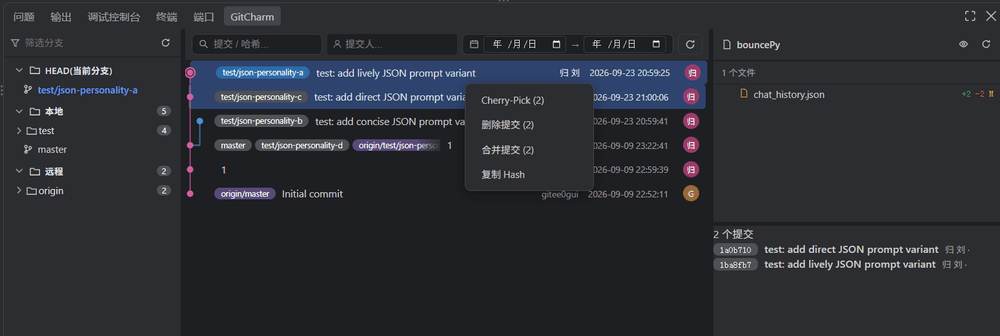
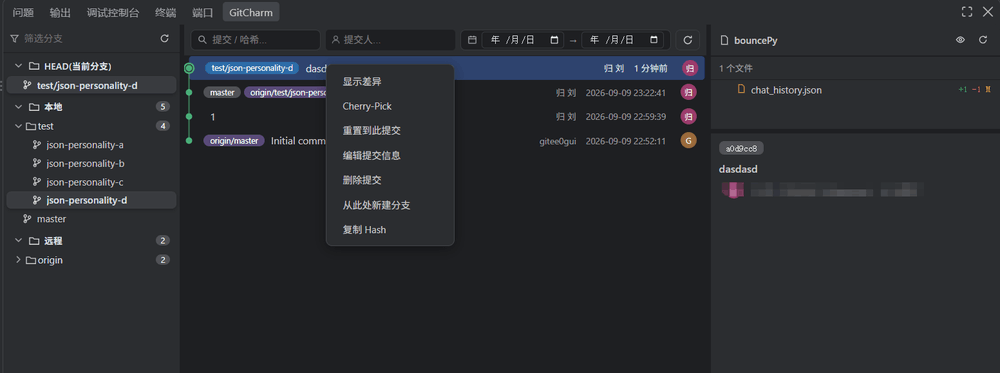
文档：提交右键菜单截图拆分为单选/多选两张并补全说明
- 新增单选 HEAD 提交右键菜单截图为主图 commit-context-menu.png（显示差异/精选/重置/新建分支/编辑提交信息/删除提交/复制 Hash）
- 原多选截图改名为 commit-context-menu-multi.png，README 中英各补"多选"条目（批量 精选/删除/合并）

diff --git a/README.md b/README.md
@@ -14,9 +14,13 @@ GitCharm provides a three-panel Git log view:
 
 ## Screenshots
 
-**Commit context menu** — right-click a commit row for Show Diff / Cherry-Pick / Reset / New Branch, plus Amend message & Drop on HEAD
+**Commit context menu (single)** — right-click a commit row for Show Diff / Cherry-Pick / Reset / New Branch, plus Amend message & Drop on HEAD
 
 ![Commit context menu](resources/screenshots/commit-context-menu.png)
+
+**Commit context menu (multi-select)** — select several commits then right-click for batch Cherry-Pick / Drop / Squash
+
+![Commit context menu multi-select](resources/screenshots/commit-context-menu-multi.png)
 
 **Branch context menu** — right-click a branch node for Checkout / Rename / Delete / Merge / Rebase / Push / Pull
 
@@ -150,9 +154,13 @@ GitCharm 提供一个三栏式的 Git 日志面板：
 
 ## 界面截图
 
-**提交右键菜单**：提交行右键呼出 显示差异 / 精选提交 / 重置 / 新建分支，HEAD 附近另有 编辑提交信息 与 删除提交
+**提交右键菜单（单选）**：提交行右键呼出 显示差异 / 精选提交 / 重置 / 新建分支，HEAD 附近另有 编辑提交信息 与 删除提交
 
 ![提交右键菜单](resources/screenshots/commit-context-menu.png)
+
+**提交右键菜单（多选）**：多选提交后右键，批量 精选提交 / 删除提交 / 合并提交
+
+![提交右键菜单多选](resources/screenshots/commit-context-menu-multi.png)
 
 **分支右键菜单**：分支节点右键呼出 检出 / 重命名 / 删除 / 合并 / 变基 / 推送 / 拉取
 

diff --git a/CHANGELOG.md b/CHANGELOG.md
@@ -6,8 +6,8 @@
 
 ### 文档
 
-- **README 新增中英「界面截图 / Screenshots」图集**：提交右键菜单、分支右键菜单、推送对话框、编辑器右键菜单、行号 Blame、冲突处理共 6 张，逐图配说明
-- **截图压缩与重命名**：源图（`D:\刘归\Pictures\gitcharm`）经 sharp 调色板量化 + 限宽 1000px，7 张合计 660KB → 219KB（约 33%）且保持清晰；统一 ASCII 文件名放入 `resources/screenshots/`，顶部 hero 由 `main-view.png` 取代旧的 `git-log-view.png`
+- **README 新增中英「界面截图 / Screenshots」图集**：提交右键菜单（单选 + 多选）、分支右键菜单、推送对话框、编辑器右键菜单、行号 Blame、冲突处理共 8 张，逐图配说明
+- **截图压缩与重命名**：源图（`D:\刘归\Pictures\gitcharm` 及会话附图）经 sharp 调色板量化 + 限宽 1000px，8 张合计约 755KB → 250KB（约 33%）且保持清晰；统一 ASCII 文件名放入 `resources/screenshots/`，顶部 hero 由 `main-view.png` 取代旧的 `git-log-view.png`
 - **截图随包发布**：撤销 0.0.2 对 `resources/screenshots/**` 的 `.vscodeignore` 排除，修复 Marketplace 上 README 图片 404 丢失
 
 ## [0.0.2] - 2026-10-03
